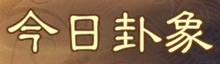
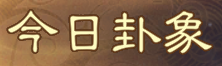
1

Changed region(s): [[0.4909, 0.1562, 0.9818, 0.8438], [0.3, 0.2188, 0.4636, 0.8125], [0.0273, 0.1875, 0.2727, 0.8438]]

diff --git a/src/vision_workflow/apps/ming_jiang_sha/parts/Activity/__init__.py b/src/vision_workflow/apps/ming_jiang_sha/parts/Activity/__init__.py
@@ -22,8 +22,8 @@ FLOW = Flow(
     entry="entry_icon",
     modules=[
         Module(id="entry_icon", name="打开活动", description="点击入口图标", event=click_huo_dong, on=_CLICK),
-        Module(id="bu_gua", name="移动鼠标至卜卦牌", description="移到 (1400,600)点击", event=move_aside, on=_CLICK,),
-        Module(id="bu_gua2", name="再次点击卜卦牌", description="再次点击", event=move_aside, config={"delay_ms": 500}, on=_CLICK),
+        Module(id="bu_gua", name="移动鼠标至卜卦牌", description="移到 (1400,600)点击", event=move_aside, on=_CLICK,config={"delay_ms": 1000}),
+        Module(id="bu_gua2", name="再次点击卜卦牌", description="再次点击", event=move_aside,  on=_CLICK),
         Module(id="space_close", name="关闭弹窗", description="Esc 关闭购买结果弹窗", event=space_close(), on=_OK),
         Module(id="gua_xiang", name="点击列表", description="点击列表", event=click_gua_xiang, on=_CLICK),
         Module(id="scroll", name="下滑列表", description="向下滚动列表", event=scroll_down, on=_OK),

diff --git a/src/vision_workflow/apps/ming_jiang_sha/parts/Activity/actions.py b/src/vision_workflow/apps/ming_jiang_sha/parts/Activity/actions.py
@@ -4,7 +4,7 @@ from vision_workflow.apps.ming_jiang_sha.common.paths import DATA_ROOT
 from vision_workflow.events import click, do, move, scroll
 from vision_workflow.module import EventFn
 
-_DIR = f"{DATA_ROOT}/huo_dong"
+_DIR = f"{DATA_ROOT}/Activity"
 
 click_huo_dong: EventFn = do(move().image(f"{_DIR}/huo_dong.png"), click())
 click_gua_xiang: EventFn = do(move().image(f"{_DIR}/gua_xiang.png"), click())
